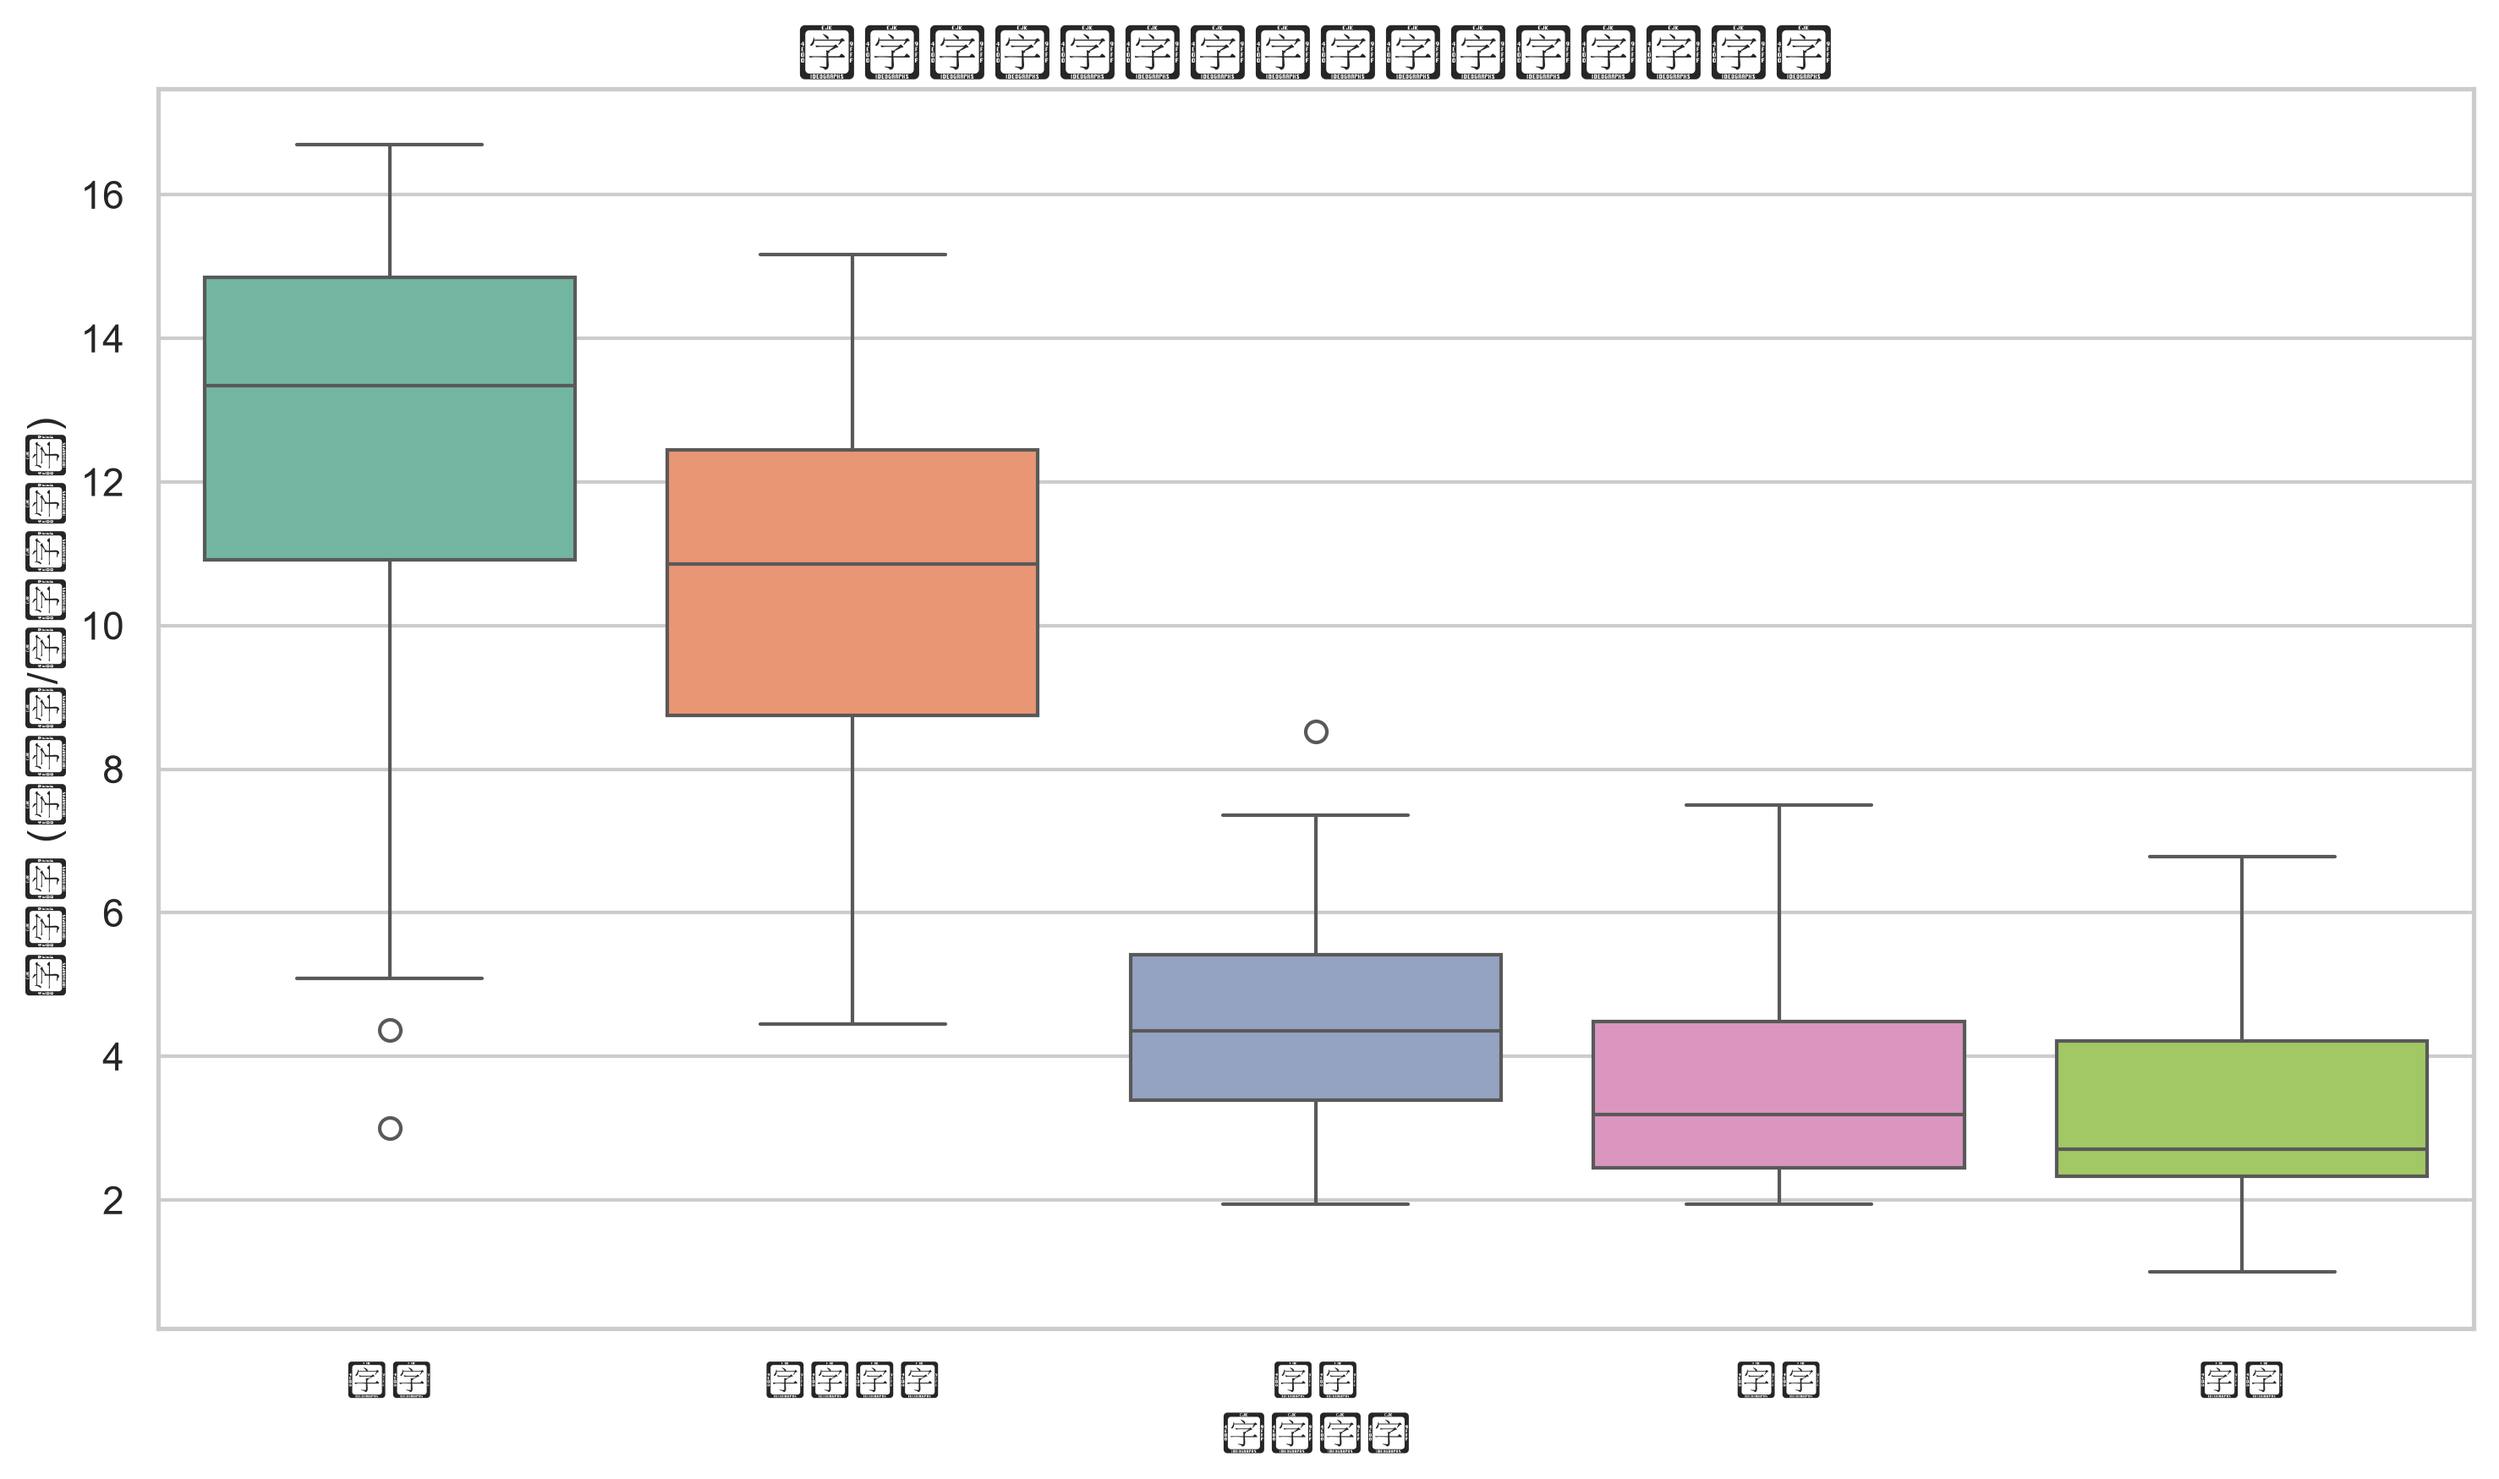
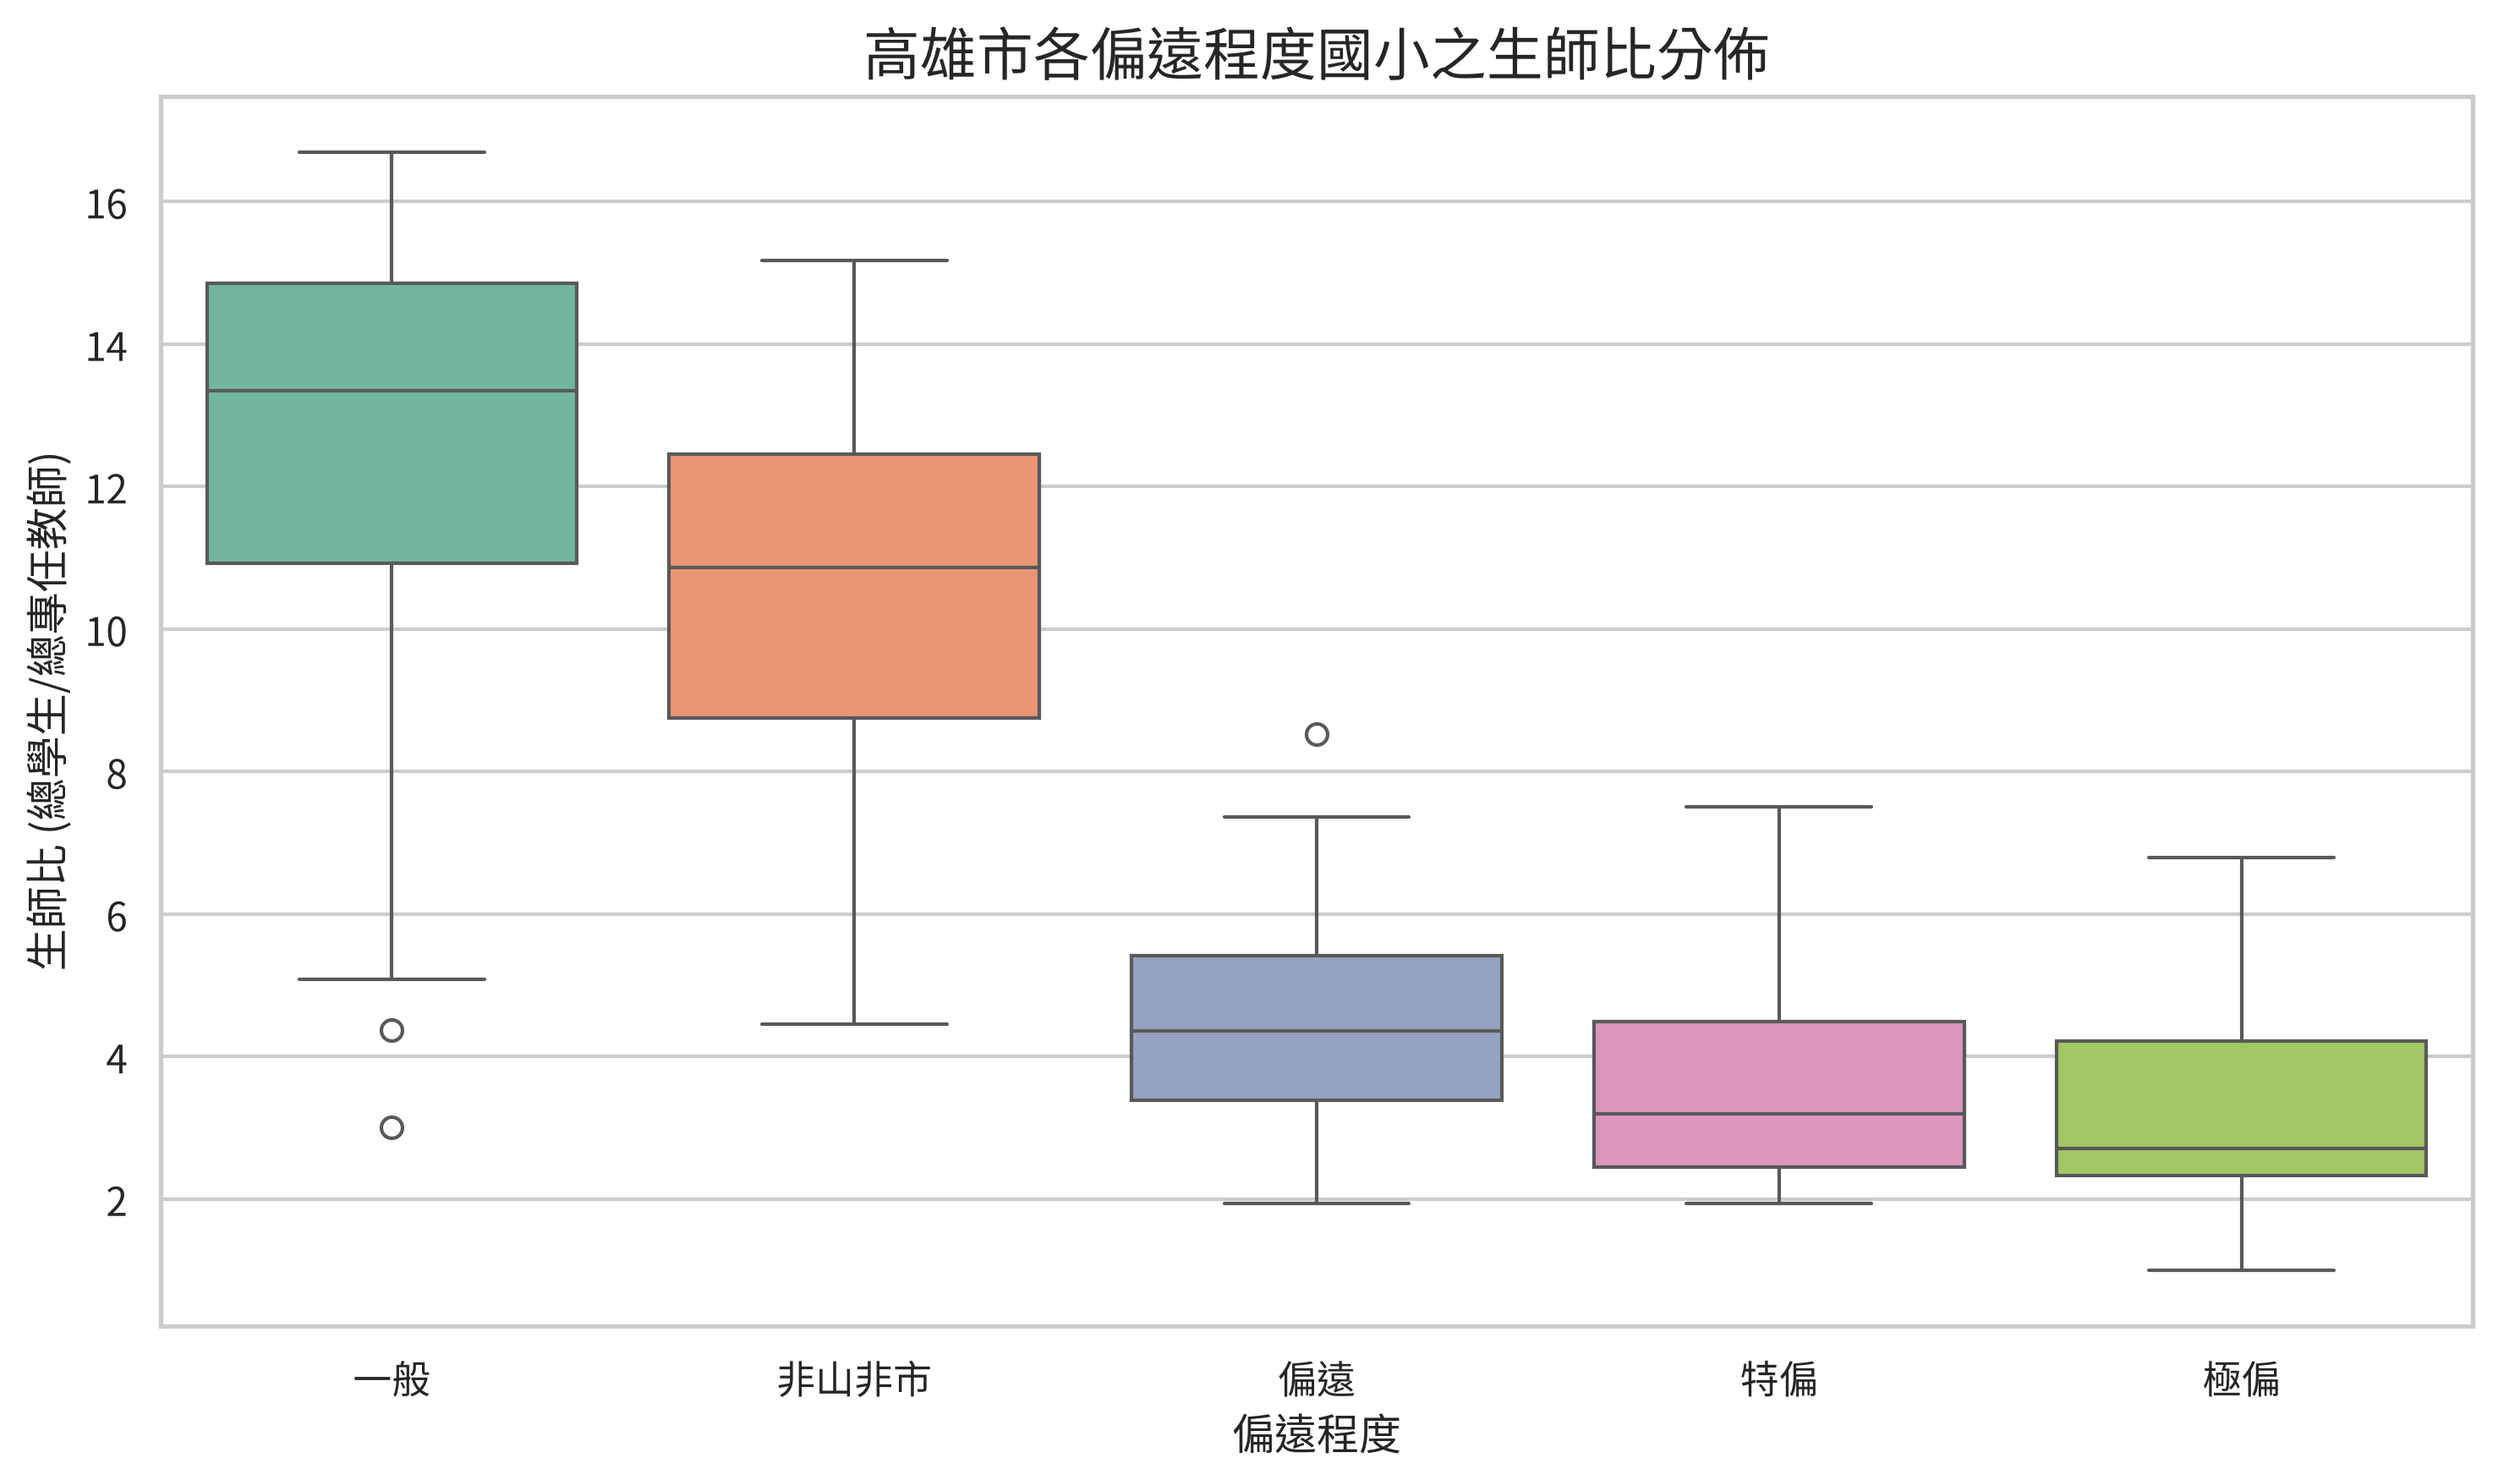
Regenerate plots after Chinese font fix

diff --git a/gemini_code.py b/gemini_code.py
@@ -31,11 +31,12 @@ def set_chinese_font():
     font_candidates = ["Noto Sans CJK TC", "Microsoft JhengHei", "微軟正黑體", "Taipei Sans TC", "sans-serif"]
     if font_file and os.path.exists(font_file):
         fm.fontManager.addfont(font_file)
-        font_prop = fm.FontProperties(fname=font_file)
-        plt.rcParams["font.family"] = [font_prop.get_name()]
+        font_name = fm.FontProperties(fname=font_file).get_name()
+        plt.rcParams["font.family"] = "sans-serif"
+        plt.rcParams["font.sans-serif"] = [font_name] + font_candidates
     else:
-        plt.rcParams["font.family"] = font_candidates
-    plt.rcParams["font.sans-serif"] = font_candidates
+        plt.rcParams["font.family"] = "sans-serif"
+        plt.rcParams["font.sans-serif"] = font_candidates
     plt.rcParams["axes.unicode_minus"] = False
 
 
@@ -160,8 +161,8 @@ def load_data(data_file: str = DATA_FILE) -> pd.DataFrame:
 
 
 def main(data_file: str = DATA_FILE, output_dir: str = OUTPUT_DIR):
-    set_chinese_font()
     sns.set_theme(style="whitegrid")
+    set_chinese_font()
     os.makedirs(output_dir, exist_ok=True)
 
     df = load_data(data_file)
